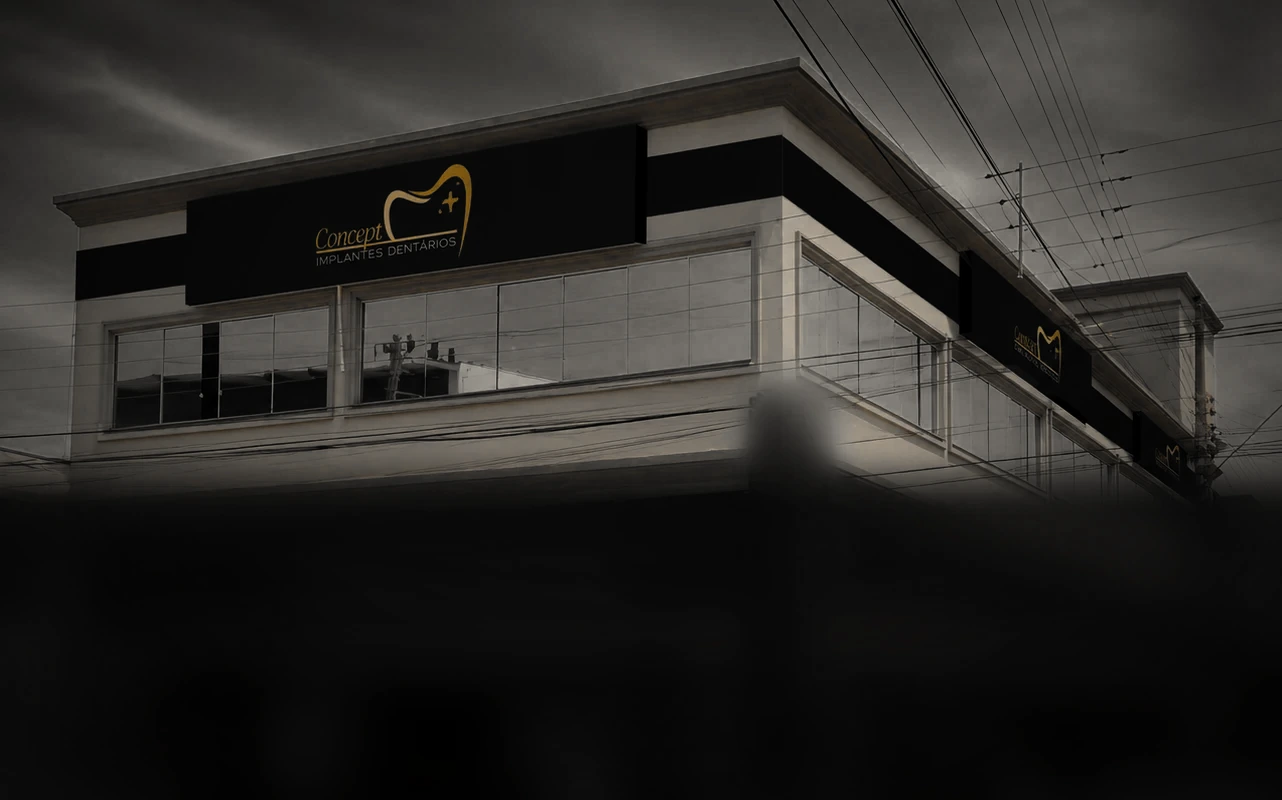
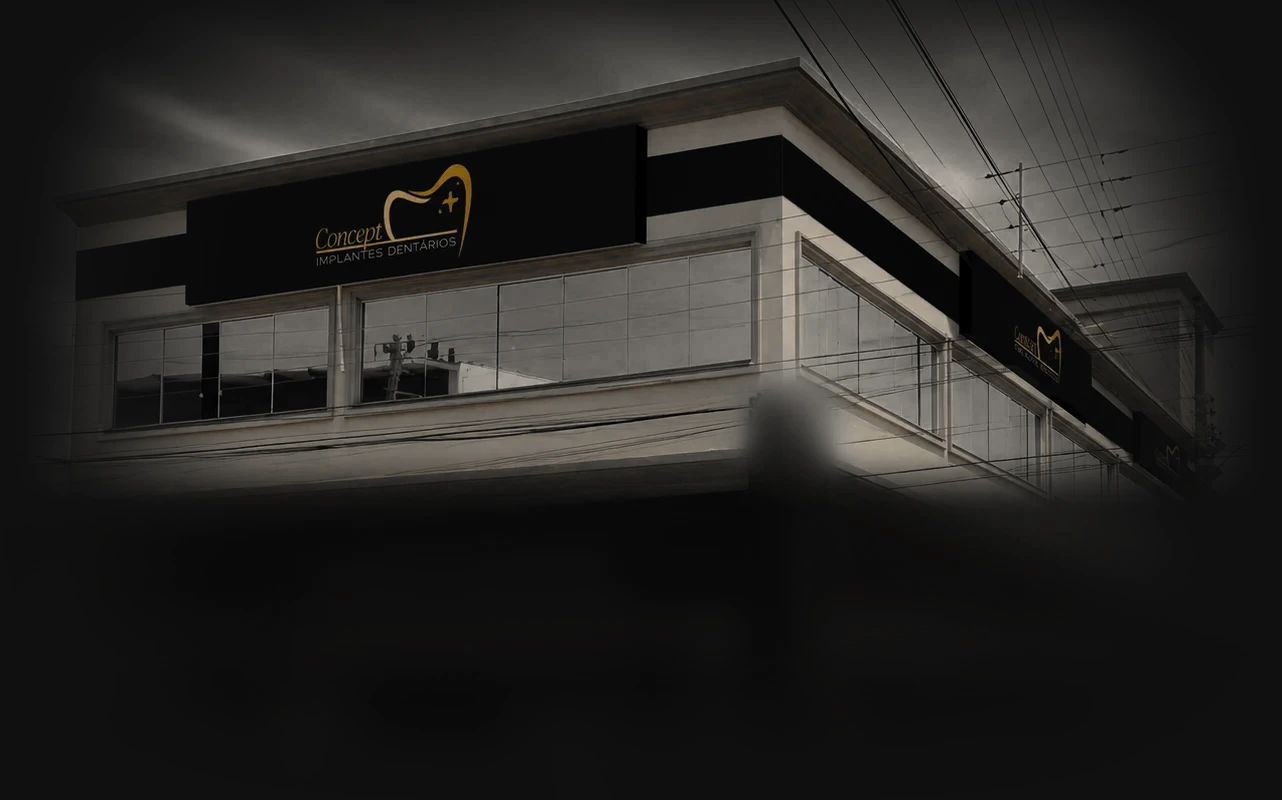
Zoom out hero and Differential photos; patient smile in implants card
- Facade: vignette now lands exactly on #101010 at the edges, so on
  desktop it's shown whole (contain) and melts into the background
- Differential: narrower photo area closer to the portrait's ratio and a
  gentler parallax (1.05 instead of 1.14) so more of Dra. Simone shows
- Implants card: real after-smile from a prótese protocolo case on the
  right half, fading into the card; CTA moves under the text

Changed region(s): [[0.3432, 0.0, 1.0, 0.625], [0.0, 0.0312, 0.156, 0.625]]

diff --git a/src/components/Specialties.tsx b/src/components/Specialties.tsx
@@ -1,5 +1,6 @@
 "use client";
 
+import Image from "next/image";
 import WhatsAppIcon from "./WhatsAppIcon";
 import {
   Sparkles,
@@ -91,34 +92,41 @@ export default function Specialties({ onOpenForm }: { onOpenForm: () => void }) 
 
         {/* Destaque: implantes */}
         <AnimatedSection className="mb-6">
-          <article className="relative overflow-hidden rounded-[28px] bg-ink-950 p-8 sm:p-12 lg:p-16">
-            <div
-              aria-hidden
-              className="absolute top-0 right-0 w-[420px] h-[420px] rounded-full bg-[radial-gradient(circle,rgba(252,219,159,0.09),transparent_65%)] blur-2xl"
-            />
-            <div className="relative lg:grid lg:grid-cols-12 lg:gap-12 items-end">
-              <div className="lg:col-span-8">
-                <p className="text-[0.6875rem] font-bold uppercase tracking-[0.14em] text-gold-400 mb-5">
-                  Especialidade principal
-                </p>
-                <h3 className="text-[clamp(1.875rem,3.2vw,2.75rem)] leading-[1.1] tracking-[-0.025em] font-medium text-white mb-5">
-                  Implantes Dentários
-                </h3>
-                <p className="text-[1.0625rem] leading-[1.7] text-ink-300 max-w-[56ch]">
-                  Implantes unitários, múltiplos e prótese protocolo sobre
-                  implantes. Recupere a mastigação firme e a segurança ao
-                  sorrir, com planejamento digital e técnica de precisão.
-                </p>
-              </div>
-              <div className="lg:col-span-4 mt-8 lg:mt-0 lg:flex lg:justify-end">
-                <button
-                  onClick={onOpenForm}
-                  className="group inline-flex items-center justify-center gap-2 h-[52px] px-7 bg-gold-300 text-ink-950 font-semibold rounded-[12px] hover:bg-gold-200 transition-all duration-200 focus-visible:outline-2 focus-visible:outline-offset-3 focus-visible:outline-gold-500"
-                >
-                  Agende sua consulta
-                  <WhatsAppIcon size={17} />
-                </button>
-              </div>
+          <article className="relative overflow-hidden rounded-[28px] bg-ink-950">
+            {/* Sorriso real depois da prótese protocolo: no topo no mobile;
+                metade direita no desktop, dissolvendo no preto do cartão. */}
+            <figure className="smile-fade relative h-[220px] sm:h-[280px] lg:absolute lg:inset-y-0 lg:right-0 lg:h-auto lg:w-[52%]">
+              <Image
+                src="/hero/sorriso-protocolo.webp"
+                alt="Sorriso de paciente depois da prótese protocolo sobre implantes"
+                fill
+                unoptimized
+                className="object-cover object-center"
+              />
+              <figcaption className="absolute right-4 top-4 px-3 py-1.5 rounded-full bg-ink-950/70 backdrop-blur-md text-[0.75rem] font-medium text-white">
+                Caso real · Prótese protocolo
+              </figcaption>
+            </figure>
+
+            <div className="relative p-8 sm:p-12 lg:p-16 lg:max-w-[54%]">
+              <p className="text-[0.6875rem] font-bold uppercase tracking-[0.14em] text-gold-400 mb-5">
+                Especialidade principal
+              </p>
+              <h3 className="text-[clamp(1.875rem,3.2vw,2.75rem)] leading-[1.1] tracking-[-0.025em] font-medium text-white mb-5">
+                Implantes Dentários
+              </h3>
+              <p className="text-[1.0625rem] leading-[1.7] text-ink-300 max-w-[48ch] mb-8">
+                Implantes unitários, múltiplos e prótese protocolo sobre
+                implantes. Recupere a mastigação firme e a segurança ao
+                sorrir, com planejamento digital e técnica de precisão.
+              </p>
+              <button
+                onClick={onOpenForm}
+                className="group inline-flex items-center justify-center gap-2 h-[52px] px-7 bg-gold-300 text-ink-950 font-semibold rounded-[12px] hover:bg-gold-200 transition-all duration-200 focus-visible:outline-2 focus-visible:outline-offset-3 focus-visible:outline-gold-500"
+              >
+                Agende sua consulta
+                <WhatsAppIcon size={17} />
+              </button>
             </div>
           </article>
         </AnimatedSection>

diff --git a/src/app/globals.css b/src/app/globals.css
@@ -168,6 +168,20 @@ body {
   }
 }
 
+/* Sorriso no cartão de Implantes: some embaixo no mobile, à esquerda no
+   desktop (onde encontra o texto). */
+.smile-fade {
+  -webkit-mask-image: linear-gradient(to bottom, #000 55%, transparent);
+  mask-image: linear-gradient(to bottom, #000 55%, transparent);
+}
+
+@media (min-width: 1024px) {
+  .smile-fade {
+    -webkit-mask-image: linear-gradient(to right, transparent 0%, #000 38%);
+    mask-image: linear-gradient(to right, transparent 0%, #000 38%);
+  }
+}
+
 /* Motion das fotos. Sem suporte a scroll timelines (ou com movimento
    reduzido), tudo fica estático e visível. */
 @keyframes heroPhotoIn {
@@ -184,6 +198,12 @@ body {
   to { transform: translateY(6%) scale(1.14); }
 }
 
+/* Parallax quase sem zoom, para fotos que precisam aparecer inteiras. */
+@keyframes parallaxSoft {
+  from { transform: translateY(-2.5%) scale(1.05); }
+  to { transform: translateY(2.5%) scale(1.05); }
+}
+
 @keyframes imgReveal {
   from { clip-path: inset(12% 10% 12% 10% round var(--reveal-radius, 20px)); }
   to { clip-path: inset(0 0 0 0 round var(--reveal-radius, 20px)); }
@@ -194,6 +214,10 @@ body {
     /* Foto desliza dentro da moldura enquanto a seção passa. */
     .parallax-img {
       animation: parallax linear both;
+      animation-timeline: view();
+    }
+    .parallax-soft {
+      animation: parallaxSoft linear both;
       animation-timeline: view();
     }
     /* Retratos se abrem de um recorte menor até a moldura inteira. */

diff --git a/src/components/Differential.tsx b/src/components/Differential.tsx
@@ -26,15 +26,15 @@ export default function Differential() {
           direita e a máscara a dissolve no fundo escuro, sem emenda visível.
           A borda esquerda fica num pixel inteiro, e cada fade tem seu próprio
           elemento, para o Chrome não desenhar uma linha fina na junção. */}
-      <div className="photo-fade relative aspect-[4/5] sm:aspect-[4/3] lg:absolute lg:inset-y-0 lg:right-0 lg:left-[round(42%,1px)] lg:aspect-auto">
+      <div className="photo-fade relative aspect-[4/5] sm:aspect-[4/3] lg:absolute lg:inset-y-0 lg:right-0 lg:left-[round(50%,1px)] lg:aspect-auto">
         <div className="photo-fade-y absolute inset-0">
           <Image
             src="/marca/dra-simone-consultorio.webp"
             alt="Dra. Simone em atendimento no consultório da Concept"
             fill
-            sizes="(max-width: 1024px) 100vw, 58vw"
+            sizes="(max-width: 1024px) 100vw, 50vw"
             unoptimized
-            className="parallax-img object-cover object-[50%_18%]"
+            className="parallax-soft object-cover object-[50%_22%]"
           />
         </div>
       </div>

diff --git a/src/components/Hero.tsx b/src/components/Hero.tsx
@@ -27,7 +27,7 @@ export default function Hero({ onOpenForm }: { onOpenForm: () => void }) {
           fill
           priority
           unoptimized
-          className="object-cover object-[16%_0%] sm:object-[35%_0%]"
+          className="object-cover object-[16%_0%] sm:object-[35%_0%] lg:object-contain lg:object-top"
         />
         {/* A foto já vem tratada (P&B escuro, só o dourado da placa em cor,
             vinheta radial). Aqui só um véu leve e sombra atrás do texto. */}
